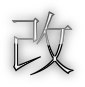
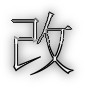
corrected reload of dic. Updates image. set new Image path. Install images

diff --git a/src/worddic/preferences.c b/src/worddic/preferences.c
@@ -103,6 +103,12 @@ G_MODULE_EXPORT gboolean on_button_dic_edit_OK_clicked(GtkWidget *widget, worddi
   GtkTreeIter iter ;
   gint index = getsingleselect(treeview_dic, &iter);
 
+  //add the dictionary in the conf
+  GjitenDicfile *dicfile = g_new0(GjitenDicfile, 1);
+  dicfile->name = gtk_entry_get_text(entry_edit_dic_name);
+  dicfile->path = gtk_file_chooser_get_filename((GtkFileChooser*)fcb_edit_dic_path);
+  worddic->conf->dicfile_list = g_slist_append(worddic->conf->dicfile_list, dicfile);
+
   //update or add a dictionary
   if(is_update){
     //get the dictionary to update
@@ -142,13 +148,6 @@ G_MODULE_EXPORT gboolean on_button_dic_edit_OK_clicked(GtkWidget *widget, worddi
                         COL_PATH, dicfile->path,
                         -1);
     }
-
-  //add the dictionary in the conf
-  GjitenDicfile *dicfile = g_new0(GjitenDicfile, 1);
-  dicfile->name = gtk_entry_get_text(entry_edit_dic_name);
-  dicfile->path = gtk_file_chooser_get_filename((GtkFileChooser*)fcb_edit_dic_path);
-  worddic->conf->dicfile_list = g_slist_append(worddic->conf->dicfile_list, dicfile);
-
     
   GtkDialog *prefs = (GtkDialog*)gtk_builder_get_object(worddic->definitions, 
                                                         "prefs");

diff --git a/src/gjitenkai/main.c b/src/gjitenkai/main.c
@@ -20,7 +20,7 @@ int main( int argc, char **argv )
   gtk_window_set_default_size(GTK_WINDOW(window), 800, 400);
   GdkPixbuf *pixbuf;
   GError *error = NULL;
-  pixbuf = gdk_pixbuf_new_from_file("pixmaps/gjitenkai.png", &error);
+  pixbuf = gdk_pixbuf_new_from_file("pixmaps/kai.png", &error);
    
   gtk_window_set_icon(GTK_WINDOW(window), pixbuf);
  

diff --git a/src/worddic/main.c b/src/worddic/main.c
@@ -24,7 +24,7 @@ int main( int argc, char **argv )
   //set icon
   GdkPixbuf *pixbuf;
   GError *error = NULL;
-  pixbuf = gdk_pixbuf_new_from_file("pixmaps/jiten.png", &error);
+  pixbuf = gdk_pixbuf_new_from_file("pixmaps/kai.png", &error);
    
   gtk_window_set_icon(GTK_WINDOW(window), pixbuf);
   

diff --git a/src/kanjidic/main.c b/src/kanjidic/main.c
@@ -20,7 +20,7 @@ int main( int argc, char **argv )
   //set icon
   GdkPixbuf *pixbuf;
   GError *error = NULL;
-  pixbuf = gdk_pixbuf_new_from_file("pixmaps/jiten.png", &error);
+  pixbuf = gdk_pixbuf_new_from_file("pixmaps/kai.png", &error);
    
   gtk_window_set_icon(GTK_WINDOW(window), pixbuf);
 
